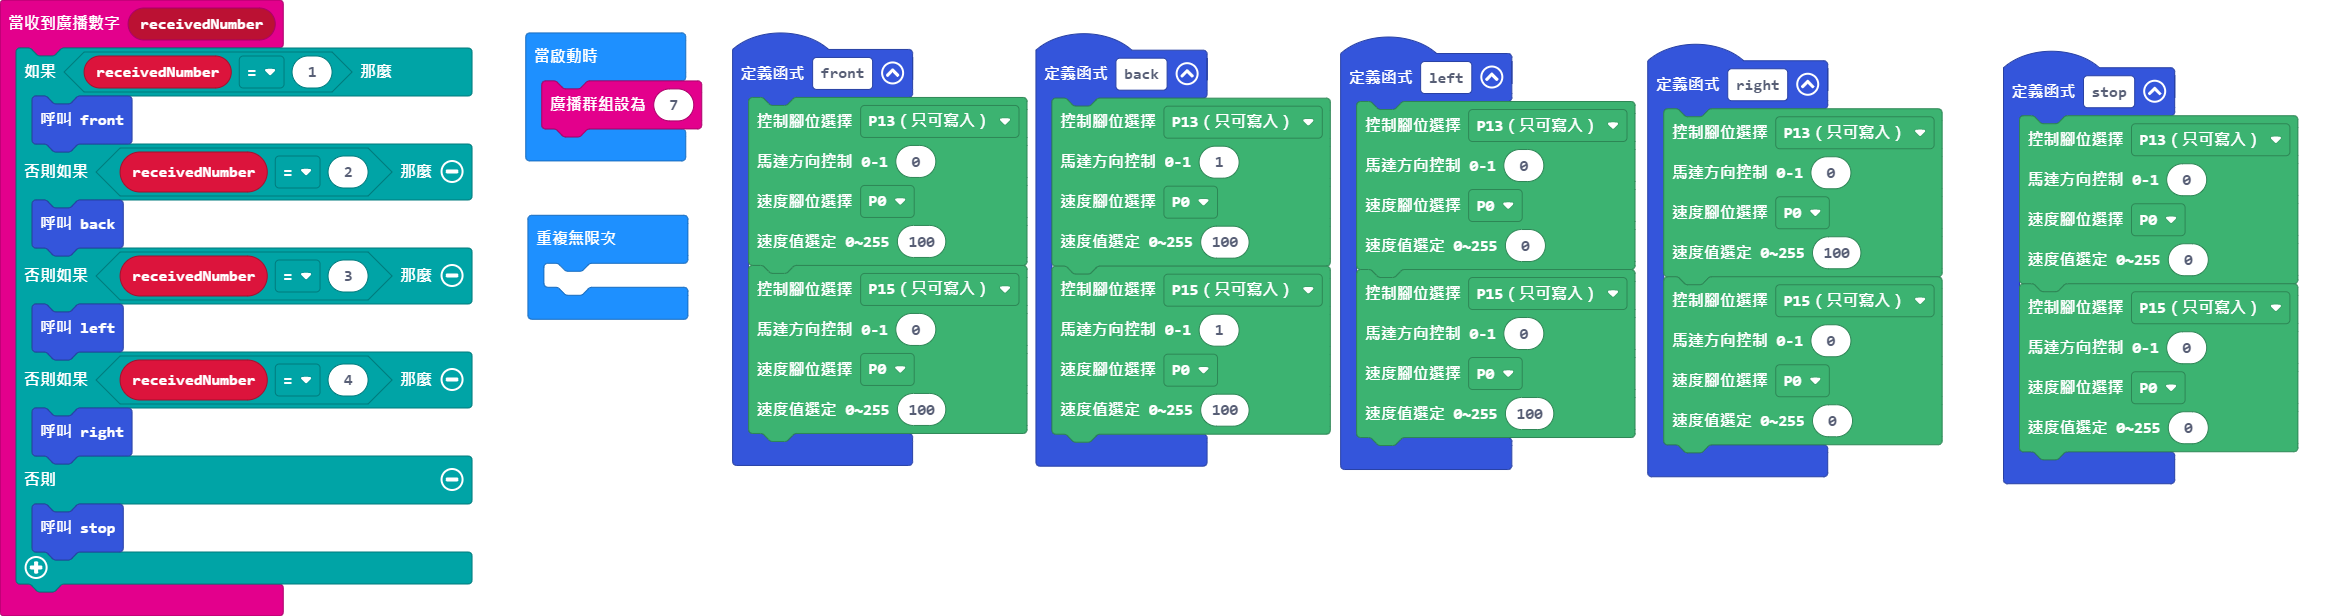
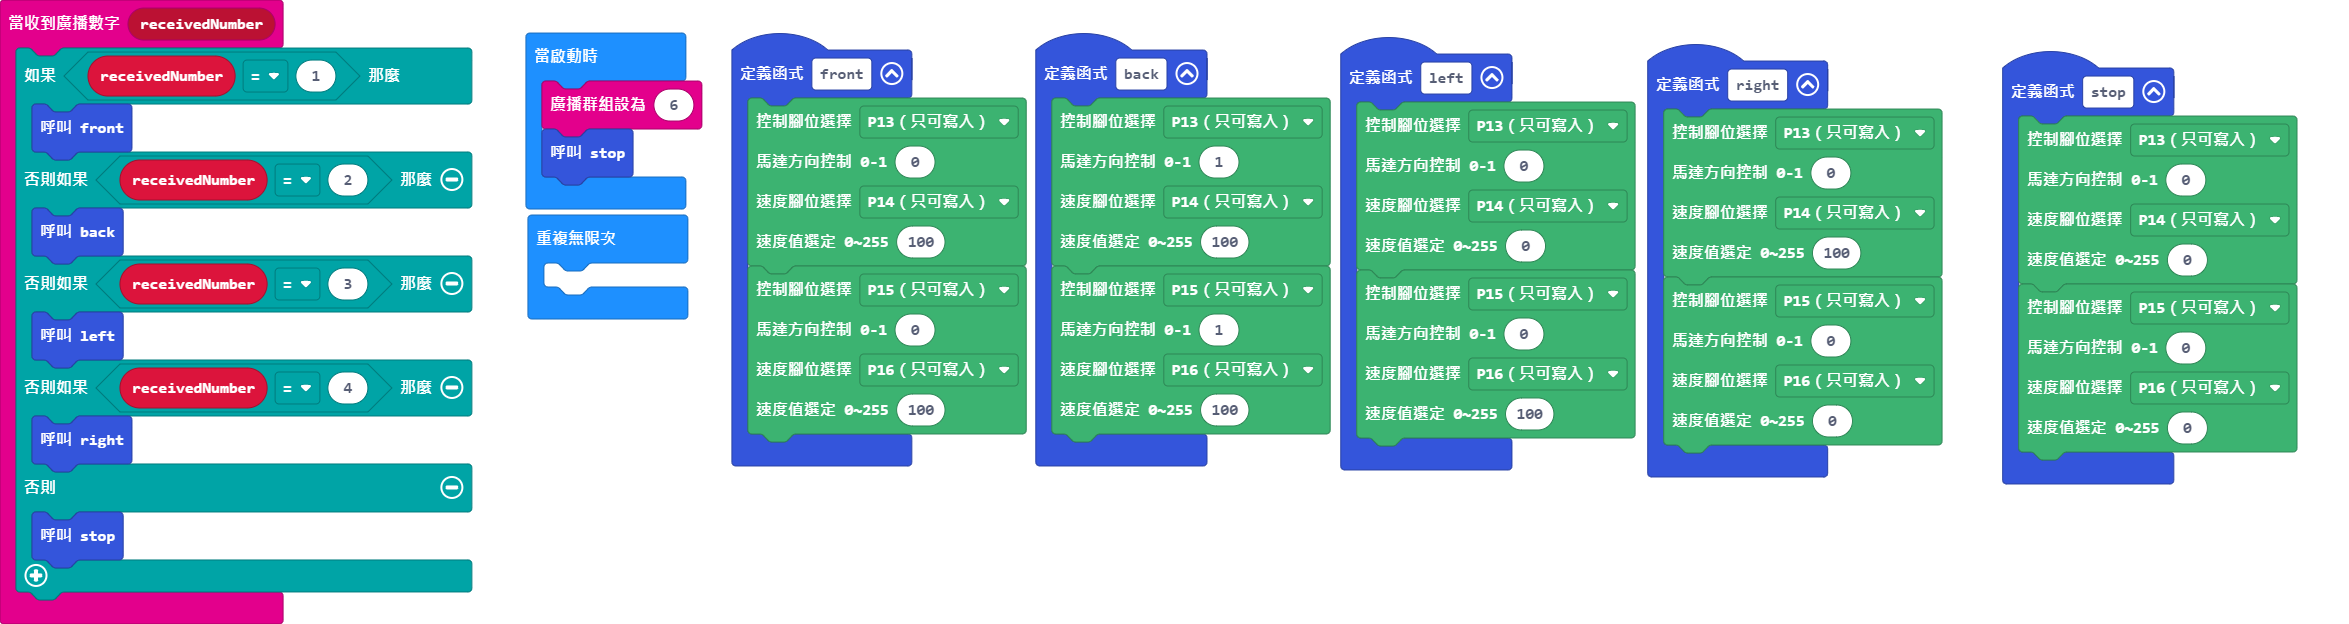
2

diff --git a/main.ts b/main.ts
@@ -2,13 +2,13 @@ function right () {
     sensors.DDMmotor(
     AnalogPin.P13,
     0,
-    AnalogPin.P0,
+    AnalogPin.P14,
     100
     )
     sensors.DDMmotor(
     AnalogPin.P15,
     0,
-    AnalogPin.P0,
+    AnalogPin.P16,
     0
     )
 }
@@ -29,13 +29,13 @@ function back () {
     sensors.DDMmotor(
     AnalogPin.P13,
     1,
-    AnalogPin.P0,
+    AnalogPin.P14,
     100
     )
     sensors.DDMmotor(
     AnalogPin.P15,
     1,
-    AnalogPin.P0,
+    AnalogPin.P16,
     100
     )
 }
@@ -43,13 +43,13 @@ function front () {
     sensors.DDMmotor(
     AnalogPin.P13,
     0,
-    AnalogPin.P0,
+    AnalogPin.P14,
     100
     )
     sensors.DDMmotor(
     AnalogPin.P15,
     0,
-    AnalogPin.P0,
+    AnalogPin.P16,
     100
     )
 }
@@ -57,13 +57,13 @@ function left () {
     sensors.DDMmotor(
     AnalogPin.P13,
     0,
-    AnalogPin.P0,
+    AnalogPin.P14,
     0
     )
     sensors.DDMmotor(
     AnalogPin.P15,
     0,
-    AnalogPin.P0,
+    AnalogPin.P16,
     100
     )
 }
@@ -71,17 +71,18 @@ function stop () {
     sensors.DDMmotor(
     AnalogPin.P13,
     0,
-    AnalogPin.P0,
+    AnalogPin.P14,
     0
     )
     sensors.DDMmotor(
     AnalogPin.P15,
     0,
-    AnalogPin.P0,
+    AnalogPin.P16,
     0
     )
 }
-radio.setGroup(7)
+radio.setGroup(6)
+stop()
 basic.forever(function () {
 	
 })
